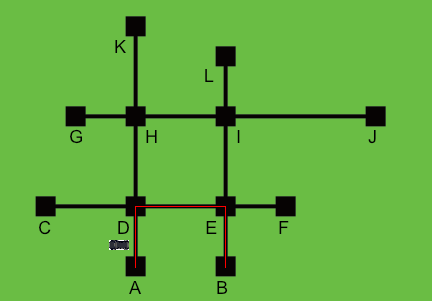
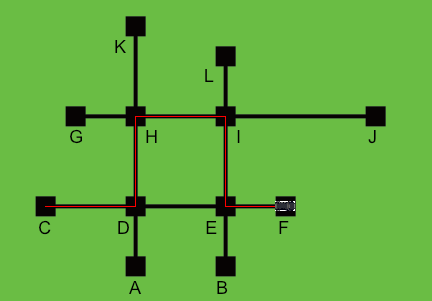
add new drive route

Changed region(s): [[0.1204, 0.6578, 0.6921, 0.7176], [0.331, 0.3588, 0.5116, 0.3887], [0.2407, 0.7774, 0.3009, 0.8372]]

diff --git a/Navigation/navigation.py b/Navigation/navigation.py
@@ -12,7 +12,7 @@ from Navigation.server import Server
 class Navigation:
     def __init__(self):
         self.ui = Userinterface()  # ui object
-        self.server = Server("172.20.10.5", 5556)  # server object
+        self.server = Server("192.168.0.8", 5556)  # server object
         self.current_state_of_app = before_navigation_state  # initial state of the application
         self.routing_cost = 0  # total routing cost
         self.thread_one = 0  # thread object for start application without ui
@@ -33,10 +33,14 @@ class Navigation:
         self.crossing_updated = False
         self.straight_updated = False
         self.is_at_node = False
+        self.prev_node = None
+        self.driven_route = []
 
-    @staticmethod
-    def get_route_from_algorithm(start_node, end_node):  # function to calculate the route and its full cost
-        return dijkstra(start_node, end_node, 1)
+    def get_route_from_algorithm(self, start_node, end_node, new_route=False):  # function to calculate the route and its full cost
+        if new_route:
+            return dijkstra(start_node, end_node, 1, prev_node=self.prev_node)
+        else:
+            return dijkstra(start_node, end_node, 1)
 
     def calc_real_range_from_cost_and_factor(self):  # calculating real range if the real driving area is bigger
         return self.factor_for_real_distance * self.routing_cost
@@ -94,6 +98,7 @@ class Navigation:
                                 self.current_state_of_app = driving_state
 
                             self.server.send_data(instructions_to_send)
+                            self.ui.distance_to_drive = self.ui.distance
                         case 3:  # driving state where distance, speed and car location gets updated
                             print("x-position:", self.ui.map.car.x_position)
                             print("y-position:", self.ui.map.car.y_position)
@@ -104,7 +109,7 @@ class Navigation:
                             route = self.check_if_car_is_at_node_position(route)
                             self.update_car_position()
 
-                            #route = self.check_if_car_is_at_other_node_position(route)
+                            route = self.check_if_car_is_at_other_node_position(route)
                             self.ui.update_map()
 
                         case 4:  # end state
@@ -129,7 +134,7 @@ class Navigation:
         self.server.handle_data()
 
     def update_ui_with_current_distance_and_speed(self):
-        self.ui.calc_distance_to_drive(self.server.driven_distance)
+        self.ui.calc_distance_to_drive(self.server.distance_difference_between_cur_and_prev_values)
 
         self.ui.update_speed(self.server.current_speed)
 
@@ -196,7 +201,8 @@ class Navigation:
         if self.prev_distance < self.server.driven_distance and self.is_at_node == True:
             self.is_at_node = False
             self.crossing_updated = False
-            route.pop()
+            self.prev_node = route.pop()
+            self.driven_route.append(self.prev_node)
             self.next_node = route[len(route)-1]
         new_route = route[:]
         print(self.prev_distance)
@@ -247,13 +253,33 @@ class Navigation:
 
     def calc_new_route(self, new_node):
         route, cost = self.get_route_from_algorithm(
-            new_node, self.ui.get_end_point_for_navigation())
+            new_node, self.ui.get_end_point_for_navigation(), new_route=True)
+
         self.all_driving_instructions = self.ui.get_driving_instructions_from_route(route)
+
         self.process_driving_instructions()
 
+
+
+
+        #self.server.fault_distance = self.server.driven_distance
+
+        #self.prev_distance = 0
+
+        #self.server.driven_distance = 0
+
         self.update_nodes_calc_routing_cost_and_get_next_instruction(route, cost)
+
         self.ui.set_distance(self.calc_real_range_from_cost_and_factor())
-        self.ui.map.draw_route_in_map(route)
+
+
+
+
+
+        start_point_as_array = [self.ui.start_point]
+        full_route = start_point_as_array + self.driven_route + route
+        self.ui.map.draw_route_in_map(full_route)
+
         self.update_car_position()
         route.reverse()
         #route.pop()

diff --git a/PositioningSystem/testing_pos_system.py b/PositioningSystem/testing_pos_system.py
@@ -13,13 +13,82 @@ def drive_a_b_way(client):
     print(client.data)
     while dist < 30.0:
         rot = 3
+        if dist > 2.1 and check_for_rotation == 0:
+            rot = 1
+            check_for_rotation = 1
+        elif dist > 7.0 and check_for_rotation == 1:
+            rot = 1
+            check_for_rotation = 2
+        dist = dist + 0.1
+        message = str(speed) + " " + str(dist) + " " + str(rot)
+        print(dist)
+        client.send_message(message)
+        time.sleep(0.5)
+
+def drive_c_d_way(client):
+    counter = 1
+    speed = 1
+    dist = 0.0
+    if not client.is_connected:
+        client.connect_to_socket()
+    check_for_rotation = 0
+    client.receive_message()
+    print(client.data)
+    while dist < 30.0:
+        rot = 3
+        dist = dist + 0.1
+        message = str(speed) + " " + str(dist) + " " + str(rot)
+        print(dist)
+        client.send_message(message)
+        time.sleep(0.5)
+
+def drive_a_b_way_wrong(client):
+    counter = 1
+    speed = 1
+    dist = 0.0
+    if not client.is_connected:
+        client.connect_to_socket()
+    check_for_rotation = 0
+    client.receive_message()
+    print(client.data)
+    while dist < 30.0:
+        rot = 3
         if dist > 7.0 and check_for_rotation == 0:
             rot = 1
             check_for_rotation = 1
-        elif dist > 10.6 and check_for_rotation == 1:
+        elif dist > 12.0 and check_for_rotation == 1:
             rot = 1
             check_for_rotation = 2
-        dist = dist + 0.14
+        dist = dist + 0.1
+        message = str(speed) + " " + str(dist) + " " + str(rot)
+        print(dist)
+        client.send_message(message)
+        time.sleep(0.5)
+
+def drive_c_d_way_wrong(client):
+    counter = 1
+    speed = 1
+    dist = 0.0
+    if not client.is_connected:
+        client.connect_to_socket()
+    check_for_rotation = 0
+    client.receive_message()
+    print(client.data)
+    while dist < 30.0:
+        rot = 3
+        if dist > 3.1 and check_for_rotation == 0:
+            rot = 0
+            check_for_rotation = 1
+        elif dist > 7.7 and check_for_rotation == 1:
+            rot = 1
+            check_for_rotation = 2
+        elif dist > 12.3 and check_for_rotation == 2:
+            rot = 1
+            check_for_rotation = 3
+        elif dist > 17.0 and check_for_rotation == 3:
+            rot = 0
+            check_for_rotation = 4
+        dist = dist + 0.1
         message = str(speed) + " " + str(dist) + " " + str(rot)
         print(dist)
         client.send_message(message)
@@ -38,5 +107,5 @@ def a_b_way(client):  # test function for route a -> b
 
 if __name__ == "__main__":
     # testing socket connection
-    client = Client("192.168.0.12", 5556)
-    a_b_way(client)
+    client = Client("192.168.0.8", 5556)
+    drive_c_d_way_wrong(client)

diff --git a/Navigation/server.py b/Navigation/server.py
@@ -15,6 +15,7 @@ class Server:
         self.current_speed = 0
         self.current_rotation = []
         self.has_connection_to_client = False
+        self.fault_distance = 0
 
     def create_socket(self):  # function which creates and binds the socket with a timeout of 10sec
         self.server_socket.settimeout(20)
@@ -46,9 +47,9 @@ class Server:
             print(string)
             if len(string) > 0:
                 self.current_speed = int(string[0])
-                self.distance_difference_between_cur_and_prev_values = float(string[1]) - self.driven_distance
+                self.distance_difference_between_cur_and_prev_values = (float(string[1]) - self.fault_distance) - self.driven_distance
                 print(self.distance_difference_between_cur_and_prev_values)
-                self.driven_distance = float(string[1])
+                self.driven_distance = float(string[1]) - self.fault_distance
                 if int(string[2]) != 3:
                     self.current_rotation.append(int(string[2]))
 

diff --git a/Routing/routing.py b/Routing/routing.py
@@ -1,7 +1,19 @@
 from Routing.routingConfig import *
 
 
-def dijkstra(start_node, end_node, cost_type):
+def remove_all_edges_with_prev_node_as_target(edge_list, prev_node):
+    new_edge_list = []
+    for edge in edge_list:
+        if edge[0] != prev_node:
+            new_edge_list.append(edge)
+
+    if len(new_edge_list) > 0:
+        return new_edge_list
+    else:
+        return edge_list
+
+
+def dijkstra(start_node, end_node, cost_type, prev_node=None):
     permanent_nodes = []  # array for the permanent nodes
     temporary_nodes = [start_node]  # array for the temporaty nodes
 
@@ -19,6 +31,9 @@ def dijkstra(start_node, end_node, cost_type):
         temporary_nodes.remove(current_node)
 
         edge_list = get_edgelist_for_current_node(current_node)  # getting all arcs for the current node
+
+        if prev_node != None:
+            edge_list = remove_all_edges_with_prev_node_as_target(edge_list, prev_node)
 
         if edge_list != 0:
             for edge in edge_list:

diff --git a/UserInterface/userinteface_for_navigation.py b/UserInterface/userinteface_for_navigation.py
@@ -240,7 +240,7 @@ class Userinterface:
     def calc_distance_to_drive(self, dist):  # function to calculate current distance to drive
         self.thread_lock.acquire()
         try:
-            self.distance_to_drive = self.distance - dist
+            self.distance_to_drive = self.distance_to_drive - dist
             # new_cost = self.dist - range_to_drive
             self.update_driven_distance(self.distance_to_drive)
         finally:
